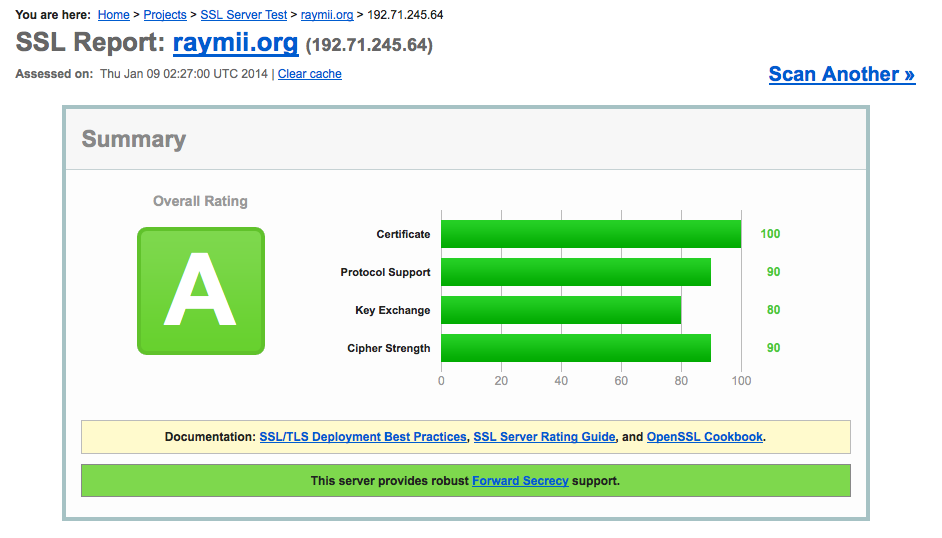
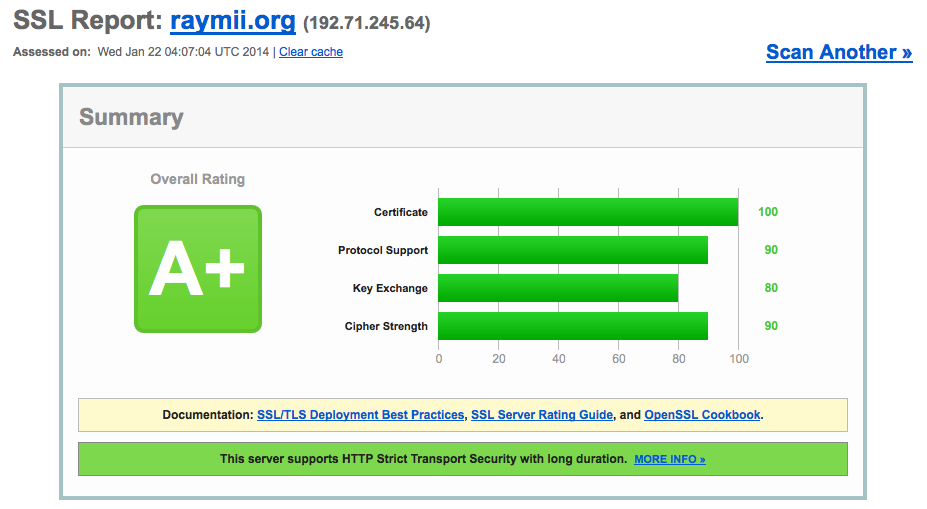
Update SSL tutorials and fixed some errors in Raspberry Pi VPN tutorial
Former-commit-id: 2959849e0c24546561a9a30900f1d586d42b2e88
Former-commit-id: d19523e1fd64dd42eb1a47b5843ff8daac8d4232

diff --git a/everything.html b/everything.html
@@ -72,7 +72,7 @@
                 <div class="inner">
 
 
-           <h2>All Items</h2><p>This page is an overview of all items on this website, including tutorials, articles, scripts, software and more. It is sorted on date, most recent first.<ol><li><a href="snippets/Remove_Old_CentOS_RHEL_Kernels.html">Remove unused CentOS/Red Hat kernels</a></li><li><a href="tutorials/rc.local_support_on_Arch_Linux_and_systemd.html">rc.local support on Arch Linux with systemd</a></li><li><a href="tutorials/IPSEC_L2TP_vpn_on_a_Raspberry_Pi_with_Arch_Linux.html">IPSEC/L2TP VPN on Arch Linux on a Raspberry Pi with OpenSwan, xl2tpd and ppp</a></li><li><a href="software/Ansible__Dynamic_Inventory_From_VMware_vCenter.html">Ansible Inventory from VMWare</a></li><li><a href="snippets/Bash_Bits_Simple_Command_Line_Arguments.html">Bash Bits: Simple command line arguments</a></li><li><a href="tutorials/Ansible_-_Playbook_Testing.html">Ansible - Playbook Testing</a></li><li><a href="tutorials/Local_W3C_HTML5_Validator_Server.html">Local W3C HTML5 Validator Server</a></li><li><a href="tutorials/Ansible_-_Only-do-something-if-another-action-changed.html">Ansible - Only do something if another action changed</a></li><li><a href="tutorials/Ansible_-_Better_sudo_control.html">Ansible - Sudo sometimes</a></li><li><a href="tutorials/Ansible_-_Only_if_on_specific_distribution_or_distribution_version.html">Ansible - Only if on specific distribution (Debian, Ubuntu, CentOS or RHEL) or distribution version (ubuntu lucid, ubuntu precise)</a></li><li><a href="tutorials/haproxy_client_side_ssl_certificates.html">haproxy: client side ssl certificates</a></li><li><a href="tutorials/Strong_SSL_Security_On_nginx.html">Strong SSL Security on nginx</a></li><li><a href="snippets/Apache_access_and_error_log_to_syslog.html">Apache access/error log to syslog</a></li><li><a href="tutorials/Strong_SSL_Security_On_Apache2.html">Strong SSL Security on Apache2</a></li><li><a href="tutorials/Thunderbird_Back_Up_Mail__Message_Filters.html">Back Up Thunderbird Message Filters</a></li><li><a href="tutorials/Install_nmap_6_on_Ubuntu_12.04.html">Install nmap 6.40 on Ubuntu 12.04</a></li><li><a href="snippets/haproxy_set_specific_ssl_ciphers.html">haproxy: set specific ssl ciphers</a></li><li><a href="snippets/haproxy_add_strict_transport_security_or_any_other_http_header.html">haproxy: add strict transport security or any other http header</a></li><li><a href="snippets/haproxy_ssl_backends.html">haproxy: ssl backends</a></li><li><a href="snippets/haproxy_redirect_to_ssl_or_any_other_website.html">haproxy: redirect to ssl or other website</a></li><li><a href="snippets/haproxy_restrict_specific_urls_to_specific_ip_addresses.html">haproxy: restrict specific URLs to specific IP addresses</a></li><li><a href="tutorials/ntop-ng-installation-on-Ubuntu.html">ntop-ng 1.1 installation on Ubuntu 12.04</a></li><li><a href="tutorials/Nagios_Core_4_Installation_on_Ubuntu_12.04.html">Nagios Core 4.0.2 installation on Ubuntu 12.04</a></li><li><a href="tutorials/Corosync_Pacemaker_-_Execute_a_script_on_failover.html">Corosync / Pacemaker - Execute script on failover</a></li><li><a href="articles/Digital_Ocean_Sucks._Use_Digital_Ocean.html">DigitalOcean Sucks. Use DigitalOcean!</a></li><li><a href="software/Nopriv-IMAP-backup.html">NoPriv.py - Easy IMAP Email Backup.</a></li><li><a href="tutorials/Self_Hosted_CryptoCat_-_Secure_Self_Hosted_Multiuser_Webchat.html">Self Hosted CryptoCat - Secure self hosted multiuser webchat</a></li><li><a href="tutorials/IPSEC_L2TP_vpn_with_Ubuntu_13.10.html">IPSEC/L2TP VPN on Ubuntu 13.10 with OpenSwan, xl2tpd and ppp</a></li><li><a href="tutorials/IPSEC_L2TP_vpn_with_Ubuntu_13.04.html">IPSEC/L2TP VPN on Ubuntu 13.04 with OpenSwan, xl2tpd and ppp</a></li><li><a href="snippets/Corosync_Notes.html">Corosync Notes</a></li><li><a href="snippets/Remove_Old_Ubuntu_Kernels.html">Remove unused Ubuntu kernels</a></li><li><a href="tutorials/Install_the_Lastest_ZNC_from_Source_in_Ubuntu.html">Install the latest ZNC from source on Ubuntu</a></li><li><a href="articles/Set_up_your_own_truly_secure_encrypted_shared_storage_aka_Dropbox_clone.html">Set up your own truly secure, encrypted and shared file synchronization, aka Dropbox clone</a></li><li><a href="snippets/OpenSSL_One_line_to_create_self_signed_certificate.html">OpenSSL One liner to create self signed certificate</a></li><li><a href="tutorials/Chef_search_in_recipe_on_roles_or_recipes.html">Chef: search in recipe based on roles or recipes</a></li><li><a href="tutorials/Chef_include_recipe_only_if_not_if.html">Chef: include_recipe only_if or not_if</a></li><li><a href="tutorials/Uninstall_OSSEC.html">Uninstall/Remove OSSEC</a></li><li><a href="snippets/Bash_Bits_Check_If_Item_Is_In_Array.html">Bash Bits: Check if item is in array</a></li><li><a href="snippets/Bash_Bits_Add_Color_Output_To_Your_Scripts.html">Bash Bits: Add colour output to your script</a></li><li><a href="snippets/Bash_Bits_Debug_Logging.html">Bash Bits: Debug Logging</a></li><li><a href="snippets/Bash_Bits_Trap_Control_C_SIGTERM.html">Bash Bits: Trap Control C (SIGTERM)</a></li><li><a href="tutorials/OSSEC_and_webui_and_analogi_dashboard_installation_on_Ubuntu.html">OSSEC Server, Client, Web UI and Analogi Dashboard Installation tutorial</a></li><li><a href="snippets/OS-X-Enable-Access-for-assistive-devices-via-command-line.html">OS X - Enable access for assistive devices via the command line</a></li><li><a href="software/OS-X-Applescript-To-Lock-Date-Time-Settings-Panel-for-Sudo-Exploit.html">OS X - Applescript to lock date and time preference panel to fix local sudo exploit</a></li><li><a href="articles/IPv4_Address_Conversion_Tricks.html">IPv4 Address Conversion Tricks</a></li><li><a href="snippets/OpenVZ_dnsmasq_set_capabilities_failed_fix.html">OpenVZ dnsmasq set capabilities failed fix</a></li><li><a href="software/Bind-GNUPlot-DNS-Bar-Graph.html">Bind DNS Query Graph Charts with GNUPlot</a></li><li><a href="software/Microsoft_Exchange_Powershell_Script_User_Password_Expiry.html">Microsoft Exchange / Active Directory Powershell script to notify users of expiring Passwords</a></li><li><a href="tutorials/Nagios_-_Hide-entire-hostgroup.html">Nagios - Hide all hosts in hostgroup</a></li><li><a href="articles/Diffie-Hellman-Key-Exchange-Dutch-Notes.html">Diffie Hellman Key Exchange Dutch Notes and Example</a></li><li><a href="snippets/OpenSSL_Password_Generator.html">OpenSSL - Generate Psuedo Random Passwords</a></li><li><a href="articles/My_Todo.txt_Workflow.html">My Todo.txt Workflow, including Unison, Todour and Android</a></li><li><a href="tutorials/Pass_the_SSL_Labs_Test_on_Lighttpd_(Mitigate_the_CRIME_and_BEAST_attack_-_Disable_SSLv2_-_Enable_PFS).html">Pass the SSL Labs Test on Lighttpd (Mitigate the CRIME and BEAST attack, Disable SSLv2 and Enable Perfect Forward Secrecy).</a></li><li><a href="tutorials/Pass_the_SSL_Labs_Test_on_NGINX_(Mitigate_the_CRIME_and_BEAST_attack_-_Disable_SSLv2_-_Enable_PFS).html">Pass the SSL Labs Test on NGINX (Mitigate the CRIME and BEAST attack, Disable SSLv2 and Enable Perfect Forward Secrecy).</a></li><li><a href="tutorials/Pass_the_SSL_Labs_Test_on_Apache2_(Mitigate_the_CRIME_and_BEAST_attack_-_Disable_SSLv2_-_Enable_PFS).html">Pass the SSL Labs Test on Apache2 (Mitigate the CRIME and BEAST attack, Disable SSLv2 and Enable Perfect Forward Secrecy).</a></li><li><a href="static/Sparkling_Network.html">Sparkling Network</a></li><li><a href="snippets/OS_X-Disable_Notification_Centre.html">OS X: Disable Notification Center</a></li><li><a href="software/bdsh.html">bdsh - Whitelist Restricted Shell</a></li><li><a href="snippets/Strip_all_non-ascii_characters_from_a_file.html">Strip all non-ascii characters from a file</a></li><li><a href="tutorials/SAMBA_Share_with_Active_Directory_Login_on_Ubuntu_12.04.html">Samba Shares with Active Directory Login on Ubuntu 12.04</a></li><li><a href="snippets/Bash_-_Incremental_History_Search_Autocomplete.html">Bash Incremental History Search / Autocomplete </a></li><li><a href="tutorials/Dogtag_Red_Hat_Certificate_System_Reset_Admin_pkiconsole_Password.html">Dogtag / Red Hat Certificate System reset admin pkiconsole password</a></li><li><a href="tutorials/Ejabberd_SSL_Certificate.html">Ejabberd SSL Certificate</a></li><li><a href="tutorials/Ejabberd_Active_Directory_LDAP_Login.html">Ejabberd Active Directory LDAP Login</a></li><li><a href="tutorials/Set_up_a_federated_XMPP_Chat_Network_with_ejabberd.html">Set up a federated XMPP Chat Network with ejabberd, your own Google Talk/Hangouts alternative</a></li><li><a href="snippets/OS_X_Turn_Bonjour_off_or_on_via_the_command_line.html">OS X - Turn Bonjour off or on via the command line</a></li><li><a href="snippets/OS_X_Turn_off_sleep_from_the_command_line.html">OS X - Turn off sleep from the command line</a></li><li><a href="software/OS_X_Create_Hardware_report_spx_and_save_it_to_a_AFP_share.html">OS X - Create Hardware report SPX and save it to a AFP share</a></li><li><a href="tutorials/Gitlab_and_Active_Directory_LDAP_Authentication.html">Gitlab Active Directory LDAP Authentication</a></li><li><a href="snippets/OS_X_-_Turn_firewall_on_or_off_from_the_command_line.html">OS X: Turn firewall on or off from the command line</a></li><li><a href="tutorials/Exchange_2007_2010_Autodiscovery_DNS_SRV_record_for_BIND.html">Exchange 2007/2010 Autodiscovery DNS SRV record for BIND</a></li><li><a href="tutorials/Get_DNS_server_version_and_hide_it_in_BIND.html">Hide or determine BIND version number</a></li><li><a href="software/Nagios_plugin_to_check_OCSP.html">Nagios plugin to check an OCSP server</a></li><li><a href="software/Nagios_Plugin_to_check_a_Safenet_HSM.html">Nagios plugin to check Safenet HSM</a></li><li><a href="software/Nagios_plugin_to_check_CRL_expiry.html">Nagios plugin to check CRL expiry in minutes</a></li><li><a href="snippets/OS-X-Add-or_Remove_Mac_to_Active_Directory_or_OpenLDAP_Domain.html">Join Mac OS X to an Active Directory / OpenDLAP directory from the commandline</a></li><li><a href="tutorials/HTTP_Strict_Transport_Security_for_Apache_NGINX_and_Lighttpd.html">HTTP Strict Transport Security for Apache, NGINX and Lighttpd</a></li><li><a href="snippets/HP-ILO-Quickly-gather-firmware-and-version-information-with-CUR.html">HP ILO - Quickly gather ILO version and firmware information via CURL</a></li><li><a href="software/Munin_plugin_Logstash_Kibana_messages_per_hour.html">Munin plugin to show Logstash/Kibana messages per hour</a></li><li><a href="tutorials/Collectd_client_setup_tutorial.html">Set up a Collectd client</a></li><li><a href="tutorials/Collectd_server_setup_tutorial_with_web_frontend.html">Set up a Collectd server with web frontend</a></li><li><a href="tutorials/NGINX_proxy_folder_to_different_root.html">NGINX: Proxy folders to different root</a></li><li><a href="tutorials/Silent-automatic-apt-get-upgrade.html">Silent unatended apt-get upgrade</a></li><li><a href="tutorials/Ansible_-_Only_if_host_is_also_in_other_hostgroup.html">Ansible - Only if host is also in other hostgroup</a></li><li><a href="tutorials/Ansible_-_Sudo_Safety_and_Sanity_Checks.html">Ansible - /etc/sudoers safety and sanity checking in playbook</a></li><li><a href="tutorials/Shared_Git_repository_via_ssh_for_multiple_users.html">Shared Git repository over ssh for multiple users</a></li><li><a href="snippets/NGINX_Block_access_to_.git_or_.svn_project_folders.html">NGINX: Hide / Block .git and .svn folders</a></li><li><a href="tutorials/Ansible_Deployment_Framework.html">Ansible - pure ssh based configuration management and deployment</a></li><li><a href="static/Hosted_Piwik.html">Hosted Piwik</a></li><li><a href="tutorials/Ansible.html">Ansible - pure ssh based configuration management and deployment</a></li><li><a href="tutorials/Screenfetch_installation_tutorial.html">Screenfetch installation tutorial</a></li><li><a href="tutorials/Better_cron_env_and_shell_control_with_the_SHELL_variale.html">Better Cron env and shell control with the SHELL variable</a></li><li><a href="articles/Word_occurrence_counter_and_analyzer.html">Word occurrence counter and analyzer</a></li><li><a href="tutorials/VMWare-ESXi-5-USB-installer.html">Create a VMWare ESXi 5 / 5.1 USB install disk</a></li><li><a href="tutorials/Website-and-database-backup-with-Duplicity.html">Basic website and database backups with Duplicity</a></li><li><a href="snippets/Systemd_Rosetta_Reference.html">Systemd rosetta / cheatsheet</a></li><li><a href="snippets/OpenSSL_generate_CSR_non-interactivemd.html">OpenSSL Generate CSR non-interactive</a></li><li><a href="snippets/OpenSSL_match_certificate_with_private_key.html">OpenSSL match certificate and private key</a></li><li><a href="snippets/Munin-Fix-MySQL-Plugin-on-Ubuntu-12.04.html">Munin - Fix MySQL plugin on Ubuntu 12.04 and Debian 6</a></li><li><a href="snippets/Munin-NGINX-Status-Plugin-Ubuntu-12.04.html">Munin - Set up the NGINX status plugin on Ubuntu 12.04</a></li><li><a href="snippets/Procfs_tips_and_tricks.html">Exploring /proc/ - tips and tricks for the procfs</a></li><li><a href="snippets/OpenSSL_Get_Certificate_Expiry_Date_and_Other_Info.html">OpenSSL one liner to get expiry date from SSL Certificate of any website</a></li><li><a href="snippets/CentOS_Save_iptables_restorecon_error.html">Fix CentOS IPTables rule saving (iptables: Saving firewall rules to /etc/sysconfig/iptables: /etc/init.d/iptables: line 274: restorecon: command not found)</a></li><li><a href="software/Restrict_SSH.html">Restrict SSH</a></li><li><a href="tutorials/RT_find__and_delete_big_attachments.html">RT (Request Tracker) - find and delete big attachments</a></li><li><a href="tutorials/Install_Python_2.7_or_3_on_debian_6.html">Install python 2.7 or 3 under Debian 6</a></li><li><a href="tutorials/IPSEC_L2TP_vpn_with_Ubuntu_12.10.html">IPSEC/L2TP VPN on Ubuntu 12.10 with OpenSwan, xl2tpd and ppp</a></li><li><a href="tutorials/IPSEC_L2TP_vpn_with_Ubuntu_12.04.html">IPSEC/L2TP VPN on Ubuntu 12.04 with OpenSwan, xl2tpd and ppp</a></li><li><a href="tutorials/IPSEC_L2TP_vpn_on_CentOS_-_Red_Hat_Enterprise_Linux_or_Scientific_-_Linux_6.html">IPSEC/L2TP VPN on CentOS 6 / Red Hat Enterprise Linux 6 / Scientific Linux 6</a></li><li><a href="software/Ruby_script_to_upload_or_convert_a_Maildir_Inbox_to_an_IMAP_Server.html">Ruby script to upload or convert a Maildir Inbox to an IMAP server</a></li><li><a href="software/Python-script-to-monitor-a-file-for-changes-and-then-mail-the-report-with-the-file-attached.html">Python script to monitor a file for changes and then mail the report with the file attached.</a></li><li><a href="tutorials/Exchange_2010_OWA_lock_users_after_x_amount_of_failed_logins.html">Exchange 2010 - OWA - Lock user after x amount of failed logins</a></li><li><a href="tutorials/Restore-iptables-rules-after-a-reboot-on-debian.html">Restore iptables rules after a reboot on debian</a></li><li><a href="tutorials/OS-X-Mountain_Lion_iso_resize_to_fit_on_a_single_layer_dvd.html">Resize OS X Mountain Lion installer to fit on a single layer 4.7 GB DVD</a></li><li><a href="software/CIDR-Cheatsheet.html">CIDR Cheatsheet</a></li><li><a href="software/ingsoc.html">ingsoc</a></li><li><a href="tutorials/Munin_optimalization_on_Debian.html">Munin optimization guide for Debian (rrdcached, tmpfs, ionice and nice)</a></li><li><a href="snippets/OS-X-Change-Hostname.html">Set OS X hostname from the commandline</a></li><li><a href="tutorials/ClamAV.html">ClamAV installation and daily scan + report on Ubuntu</a></li><li><a href="tutorials/Limit_access_to_openssh_features_with_the_Match_keyword.html">Limit access to openssh features with the Match option</a></li><li><a href="tutorials/Tahoe_LAFS_Storage_Grid.html">Set up your own distributed, redundant, and encrypted storage grid with Tahoe-LAFS</a></li><li><a href="software/Git-clean.html">Git-clean</a></li><li><a href="articles/Small_Linux_PCs.html">Small low cost linux pc's, an overview from 11-2012</a></li><li><a href="software/Bash_PHP_Server_Status_Monitor.html">Ray-Mon - PHP/Bash server status monitoring</a></li><li><a href="software/Codename_Geld.html">Codename Geld</a></li><li><a href="tutorials/ed_cheatsheet.html">ed cheatsheet</a></li><li><a href="tutorials/Autossh_persistent_tunnels.html">Persistent reverse (NAT bypassing) SSH tunnel access with autossh</a></li><li><a href="software/Nagios_check_local_certificate_files.html">Nagios plugin to check certificates on local file system</a></li><li><a href="software/NutsManager.html">NutsManager</a></li><li><a href="software/PHP-task-list-v2.html">PHP Task/Todo list</a></li><li><a href="articles/Security_Now_Word_Analyzer.html">Complete word count analysis of Security Now, episode 1 trough 370.</a></li><li><a href="snippets/Get_uptime_load_and_users_with_grep_sed_and_awk.html">Correctly grep and display the uptime, load average and amount of users</a></li><li><a href="software/Software_packages.html">Packages</a></li><li><a href="articles/Tiny-Tiny-RSS.html">Tiny Tiny RSS</a></li><li><a href="software/Wallbase.cc_Command_line_script.html">Wallbase.cc commandline bash wget downloader</a></li><li><a href="articles/Small_Linux_Distros.html">Small Operating Systems / Linux Distributions</a></li><li><a href="snippets/Set_up_an_IMAPS_and_SMTPS_mail_server_with_Postfix_and_Dovecot.html">Postfix snippets - not finished</a></li><li><a href="software/ProxBash.html">ProxBash - a bash script to manage Proxmox VE</a></li><li><a href="software/Ubuntu_update_mailer.html">Ubuntu/Debian update mailer</a></li><li><a href="software/Terrible-start.html">Terrible Start</a></li><li><a href="snippets/Bash_-_Do_something_in_every_subdirectory_of_a_folder.html">Bash - do something in every subdirectory</a></li><li><a href="software/List-all-changed-files-in-a-certain-period.html">Bash script to list all changed files in certain period</a></li><li><a href="tutorials/Set_up_a_local_Ubuntu_debian_apt_mirror.html">Set up a local Ubuntu (apt) repository with apt-mirror</a></li><li><a href="software/Nursecalc-o2.html">NurseCalc o2 - Bash script and online app for Oxygen Calculations</a></li><li><a href="software/Nursecalc-Infuus.html">NurseCalc Infuus - Bash script and Online app for infusion and drip (speed) Calculations </a></li><li><a href="snippets/Arch-bash-pacman-bashrc-tips.html">Some Bash and Arch Tweaks </a></li><li><a href="software/Magicprog.html">MagicProg: Magic the Gathering (RPG/TGC) Life Program </a></li><li><a href="articles/Chrome-extensions-for-privacy.html">Chrome Extensions for Privacy, Adblocking and anti-tracking</a></li><li><a href="tutorials/Stopping-fail2ban.server-ERROR-Unexpected-communication-error-and-other-errors-in-fail2ban-on-ubuntu-9.04.html">Stopping fail2ban.server : ERROR Unexpected communication error and other errors in fail2ban on ubuntu 9.04</a></li><li><a href="tutorials/Dokuwiki_Overview.html">Introduction to DokuWiki</a></li><li><a href="tutorials/Markdown_Introduction_Tutorial_Overview.html">Introduction to Markdown</a></li><li><a href="tutorials/Tether-your-sonim-xp3-phone-with-linux.html">Tether your Sonim XP3 phone with Linux</a></li><li><a href="tutorials/What-to-do-if-you-cannot-execute-chmod.html">What to do if you cannot execute CHMOD</a></li><li><a href="software/Nopriv.py.html">NoPriv.py - Easy IMAP email backup to HTML archive.</a></li><li><a href="tutorials/Customize-your-clonezilla-live-CD.html">Customize your Clonezilla Live CD</a></li><li><a href="tutorials/Debian-apt-get-dpkg-packages-cleanup-commands.html">Debian packages clean up commands</a></li><li><a href="software/Easyconverter.html">EasyConverter</a></li><li><a href="software/SSHDialog.html">SSHdialog</a></li><li><a href="software/Clonezilla-custom-backup-script.html">Clonezilla Backup Script v0.2</a></li><li><a href="tutorials/Postfix_Log_message_from_to_and_subject_headers.html">Postfix: log message from, to and subject</a></li><li><a href="tutorials/SSH-Key-Restrictions.html">SSH: Key and user restrictions</a></li><li><a href="snippets/Bash-massive-rename-to-numbers.html">Bash script for massive rename to numbers</a></li><li><a href="snippets/Javascript-tricks.html">Javascript tricks</a></li><li><a href="snippets/Convert-all-flv-files-in-a-folder-to-mp3.html">Convert FLV's to MP3</a></li><li><a href="tutorials/Setting-up-motion-with-ftp-and-email-support.html">Setting up Motion with FTP and Email! support</a></li><li><a href="snippets/Ja-Nee-keuze-toevoegen-in-een-bash-script.html">Bash ja/nee keuze</a></li><li><a href="snippets/Imagemagick-thumbnailer.html">Imagemagick thumbnailer</a></li><li><a href="tutorials/Set-your-ip-as-wallpaper.html">Set your IP as wallpaper</a></li><li><a href="snippets/Vim_Cheatsheet.html">Vim Cheatsheet</a></li><li><a href="static/Disclaimer.html">Disclaimer</a></li><li><a href="static/Contact.html">Contact</a></li></ol><div class="footer">
+           <h2>All Items</h2><p>This page is an overview of all items on this website, including tutorials, articles, scripts, software and more. It is sorted on date, most recent first.<ol><li><a href="snippets/Remove_Old_CentOS_RHEL_Kernels.html">Remove unused CentOS/Red Hat kernels</a></li><li><a href="tutorials/rc.local_support_on_Arch_Linux_and_systemd.html">rc.local support on Arch Linux with systemd</a></li><li><a href="tutorials/IPSEC_L2TP_vpn_on_a_Raspberry_Pi_with_Arch_Linux.html">IPSEC/L2TP VPN on Arch Linux on a Raspberry Pi with OpenSwan, xl2tpd and ppp</a></li><li><a href="software/Ansible__Dynamic_Inventory_From_VMware_vCenter.html">Ansible Inventory from VMWare</a></li><li><a href="snippets/Bash_Bits_Simple_Command_Line_Arguments.html">Bash Bits: Simple command line arguments</a></li><li><a href="tutorials/Ansible_-_Playbook_Testing.html">Ansible - Playbook Testing</a></li><li><a href="tutorials/Local_W3C_HTML5_Validator_Server.html">Local W3C HTML5 Validator Server</a></li><li><a href="tutorials/Ansible_-_Only-do-something-if-another-action-changed.html">Ansible - Only do something if another action changed</a></li><li><a href="tutorials/Ansible_-_Better_sudo_control.html">Ansible - Sudo sometimes</a></li><li><a href="tutorials/Ansible_-_Only_if_on_specific_distribution_or_distribution_version.html">Ansible - Only if on specific distribution (Debian, Ubuntu, CentOS or RHEL) or distribution version (ubuntu lucid, ubuntu precise)</a></li><li><a href="tutorials/haproxy_client_side_ssl_certificates.html">haproxy: client side ssl certificates</a></li><li><a href="snippets/Apache_access_and_error_log_to_syslog.html">Apache access/error log to syslog</a></li><li><a href="tutorials/Strong_SSL_Security_On_Apache2.html">Strong SSL Security on Apache2</a></li><li><a href="tutorials/Thunderbird_Back_Up_Mail__Message_Filters.html">Back Up Thunderbird Message Filters</a></li><li><a href="tutorials/Install_nmap_6_on_Ubuntu_12.04.html">Install nmap 6.40 on Ubuntu 12.04</a></li><li><a href="snippets/haproxy_set_specific_ssl_ciphers.html">haproxy: set specific ssl ciphers</a></li><li><a href="snippets/haproxy_add_strict_transport_security_or_any_other_http_header.html">haproxy: add strict transport security or any other http header</a></li><li><a href="snippets/haproxy_ssl_backends.html">haproxy: ssl backends</a></li><li><a href="snippets/haproxy_redirect_to_ssl_or_any_other_website.html">haproxy: redirect to ssl or other website</a></li><li><a href="snippets/haproxy_restrict_specific_urls_to_specific_ip_addresses.html">haproxy: restrict specific URLs to specific IP addresses</a></li><li><a href="tutorials/ntop-ng-installation-on-Ubuntu.html">ntop-ng 1.1 installation on Ubuntu 12.04</a></li><li><a href="tutorials/Nagios_Core_4_Installation_on_Ubuntu_12.04.html">Nagios Core 4.0.2 installation on Ubuntu 12.04</a></li><li><a href="tutorials/Corosync_Pacemaker_-_Execute_a_script_on_failover.html">Corosync / Pacemaker - Execute script on failover</a></li><li><a href="articles/Digital_Ocean_Sucks._Use_Digital_Ocean.html">DigitalOcean Sucks. Use DigitalOcean!</a></li><li><a href="software/Nopriv-IMAP-backup.html">NoPriv.py - Easy IMAP Email Backup.</a></li><li><a href="tutorials/Self_Hosted_CryptoCat_-_Secure_Self_Hosted_Multiuser_Webchat.html">Self Hosted CryptoCat - Secure self hosted multiuser webchat</a></li><li><a href="tutorials/IPSEC_L2TP_vpn_with_Ubuntu_13.10.html">IPSEC/L2TP VPN on Ubuntu 13.10 with OpenSwan, xl2tpd and ppp</a></li><li><a href="tutorials/IPSEC_L2TP_vpn_with_Ubuntu_13.04.html">IPSEC/L2TP VPN on Ubuntu 13.04 with OpenSwan, xl2tpd and ppp</a></li><li><a href="snippets/Corosync_Notes.html">Corosync Notes</a></li><li><a href="snippets/Remove_Old_Ubuntu_Kernels.html">Remove unused Ubuntu kernels</a></li><li><a href="tutorials/Install_the_Lastest_ZNC_from_Source_in_Ubuntu.html">Install the latest ZNC from source on Ubuntu</a></li><li><a href="articles/Set_up_your_own_truly_secure_encrypted_shared_storage_aka_Dropbox_clone.html">Set up your own truly secure, encrypted and shared file synchronization, aka Dropbox clone</a></li><li><a href="snippets/OpenSSL_One_line_to_create_self_signed_certificate.html">OpenSSL One liner to create self signed certificate</a></li><li><a href="tutorials/Chef_search_in_recipe_on_roles_or_recipes.html">Chef: search in recipe based on roles or recipes</a></li><li><a href="tutorials/Chef_include_recipe_only_if_not_if.html">Chef: include_recipe only_if or not_if</a></li><li><a href="tutorials/Uninstall_OSSEC.html">Uninstall/Remove OSSEC</a></li><li><a href="snippets/Bash_Bits_Check_If_Item_Is_In_Array.html">Bash Bits: Check if item is in array</a></li><li><a href="snippets/Bash_Bits_Add_Color_Output_To_Your_Scripts.html">Bash Bits: Add colour output to your script</a></li><li><a href="snippets/Bash_Bits_Debug_Logging.html">Bash Bits: Debug Logging</a></li><li><a href="snippets/Bash_Bits_Trap_Control_C_SIGTERM.html">Bash Bits: Trap Control C (SIGTERM)</a></li><li><a href="tutorials/OSSEC_and_webui_and_analogi_dashboard_installation_on_Ubuntu.html">OSSEC Server, Client, Web UI and Analogi Dashboard Installation tutorial</a></li><li><a href="snippets/OS-X-Enable-Access-for-assistive-devices-via-command-line.html">OS X - Enable access for assistive devices via the command line</a></li><li><a href="software/OS-X-Applescript-To-Lock-Date-Time-Settings-Panel-for-Sudo-Exploit.html">OS X - Applescript to lock date and time preference panel to fix local sudo exploit</a></li><li><a href="articles/IPv4_Address_Conversion_Tricks.html">IPv4 Address Conversion Tricks</a></li><li><a href="snippets/OpenVZ_dnsmasq_set_capabilities_failed_fix.html">OpenVZ dnsmasq set capabilities failed fix</a></li><li><a href="software/Bind-GNUPlot-DNS-Bar-Graph.html">Bind DNS Query Graph Charts with GNUPlot</a></li><li><a href="software/Microsoft_Exchange_Powershell_Script_User_Password_Expiry.html">Microsoft Exchange / Active Directory Powershell script to notify users of expiring Passwords</a></li><li><a href="tutorials/Nagios_-_Hide-entire-hostgroup.html">Nagios - Hide all hosts in hostgroup</a></li><li><a href="articles/Diffie-Hellman-Key-Exchange-Dutch-Notes.html">Diffie Hellman Key Exchange Dutch Notes and Example</a></li><li><a href="snippets/OpenSSL_Password_Generator.html">OpenSSL - Generate Psuedo Random Passwords</a></li><li><a href="articles/My_Todo.txt_Workflow.html">My Todo.txt Workflow, including Unison, Todour and Android</a></li><li><a href="tutorials/Pass_the_SSL_Labs_Test_on_Lighttpd_(Mitigate_the_CRIME_and_BEAST_attack_-_Disable_SSLv2_-_Enable_PFS).html">Pass the SSL Labs Test on Lighttpd (Mitigate the CRIME and BEAST attack, Disable SSLv2 and Enable Perfect Forward Secrecy).</a></li><li><a href="tutorials/Pass_the_SSL_Labs_Test_on_NGINX_(Mitigate_the_CRIME_and_BEAST_attack_-_Disable_SSLv2_-_Enable_PFS).html">Pass the SSL Labs Test on NGINX (Mitigate the CRIME and BEAST attack, Disable SSLv2 and Enable Perfect Forward Secrecy).</a></li><li><a href="tutorials/Pass_the_SSL_Labs_Test_on_Apache2_(Mitigate_the_CRIME_and_BEAST_attack_-_Disable_SSLv2_-_Enable_PFS).html">Pass the SSL Labs Test on Apache2 (Mitigate the CRIME and BEAST attack, Disable SSLv2 and Enable Perfect Forward Secrecy).</a></li><li><a href="static/Sparkling_Network.html">Sparkling Network</a></li><li><a href="snippets/OS_X-Disable_Notification_Centre.html">OS X: Disable Notification Center</a></li><li><a href="software/bdsh.html">bdsh - Whitelist Restricted Shell</a></li><li><a href="snippets/Strip_all_non-ascii_characters_from_a_file.html">Strip all non-ascii characters from a file</a></li><li><a href="tutorials/SAMBA_Share_with_Active_Directory_Login_on_Ubuntu_12.04.html">Samba Shares with Active Directory Login on Ubuntu 12.04</a></li><li><a href="snippets/Bash_-_Incremental_History_Search_Autocomplete.html">Bash Incremental History Search / Autocomplete </a></li><li><a href="tutorials/Dogtag_Red_Hat_Certificate_System_Reset_Admin_pkiconsole_Password.html">Dogtag / Red Hat Certificate System reset admin pkiconsole password</a></li><li><a href="tutorials/Ejabberd_SSL_Certificate.html">Ejabberd SSL Certificate</a></li><li><a href="tutorials/Ejabberd_Active_Directory_LDAP_Login.html">Ejabberd Active Directory LDAP Login</a></li><li><a href="tutorials/Set_up_a_federated_XMPP_Chat_Network_with_ejabberd.html">Set up a federated XMPP Chat Network with ejabberd, your own Google Talk/Hangouts alternative</a></li><li><a href="snippets/OS_X_Turn_Bonjour_off_or_on_via_the_command_line.html">OS X - Turn Bonjour off or on via the command line</a></li><li><a href="snippets/OS_X_Turn_off_sleep_from_the_command_line.html">OS X - Turn off sleep from the command line</a></li><li><a href="software/OS_X_Create_Hardware_report_spx_and_save_it_to_a_AFP_share.html">OS X - Create Hardware report SPX and save it to a AFP share</a></li><li><a href="tutorials/Gitlab_and_Active_Directory_LDAP_Authentication.html">Gitlab Active Directory LDAP Authentication</a></li><li><a href="snippets/OS_X_-_Turn_firewall_on_or_off_from_the_command_line.html">OS X: Turn firewall on or off from the command line</a></li><li><a href="tutorials/Exchange_2007_2010_Autodiscovery_DNS_SRV_record_for_BIND.html">Exchange 2007/2010 Autodiscovery DNS SRV record for BIND</a></li><li><a href="tutorials/Get_DNS_server_version_and_hide_it_in_BIND.html">Hide or determine BIND version number</a></li><li><a href="software/Nagios_plugin_to_check_OCSP.html">Nagios plugin to check an OCSP server</a></li><li><a href="software/Nagios_Plugin_to_check_a_Safenet_HSM.html">Nagios plugin to check Safenet HSM</a></li><li><a href="software/Nagios_plugin_to_check_CRL_expiry.html">Nagios plugin to check CRL expiry in minutes</a></li><li><a href="snippets/OS-X-Add-or_Remove_Mac_to_Active_Directory_or_OpenLDAP_Domain.html">Join Mac OS X to an Active Directory / OpenDLAP directory from the commandline</a></li><li><a href="tutorials/HTTP_Strict_Transport_Security_for_Apache_NGINX_and_Lighttpd.html">HTTP Strict Transport Security for Apache, NGINX and Lighttpd</a></li><li><a href="snippets/HP-ILO-Quickly-gather-firmware-and-version-information-with-CUR.html">HP ILO - Quickly gather ILO version and firmware information via CURL</a></li><li><a href="software/Munin_plugin_Logstash_Kibana_messages_per_hour.html">Munin plugin to show Logstash/Kibana messages per hour</a></li><li><a href="tutorials/Collectd_client_setup_tutorial.html">Set up a Collectd client</a></li><li><a href="tutorials/Collectd_server_setup_tutorial_with_web_frontend.html">Set up a Collectd server with web frontend</a></li><li><a href="tutorials/NGINX_proxy_folder_to_different_root.html">NGINX: Proxy folders to different root</a></li><li><a href="tutorials/Silent-automatic-apt-get-upgrade.html">Silent unatended apt-get upgrade</a></li><li><a href="tutorials/Ansible_-_Only_if_host_is_also_in_other_hostgroup.html">Ansible - Only if host is also in other hostgroup</a></li><li><a href="tutorials/Ansible_-_Sudo_Safety_and_Sanity_Checks.html">Ansible - /etc/sudoers safety and sanity checking in playbook</a></li><li><a href="tutorials/Shared_Git_repository_via_ssh_for_multiple_users.html">Shared Git repository over ssh for multiple users</a></li><li><a href="snippets/NGINX_Block_access_to_.git_or_.svn_project_folders.html">NGINX: Hide / Block .git and .svn folders</a></li><li><a href="tutorials/Ansible_Deployment_Framework.html">Ansible - pure ssh based configuration management and deployment</a></li><li><a href="static/Hosted_Piwik.html">Hosted Piwik</a></li><li><a href="tutorials/Ansible.html">Ansible - pure ssh based configuration management and deployment</a></li><li><a href="tutorials/Screenfetch_installation_tutorial.html">Screenfetch installation tutorial</a></li><li><a href="tutorials/Better_cron_env_and_shell_control_with_the_SHELL_variale.html">Better Cron env and shell control with the SHELL variable</a></li><li><a href="articles/Word_occurrence_counter_and_analyzer.html">Word occurrence counter and analyzer</a></li><li><a href="tutorials/VMWare-ESXi-5-USB-installer.html">Create a VMWare ESXi 5 / 5.1 USB install disk</a></li><li><a href="tutorials/Website-and-database-backup-with-Duplicity.html">Basic website and database backups with Duplicity</a></li><li><a href="snippets/Systemd_Rosetta_Reference.html">Systemd rosetta / cheatsheet</a></li><li><a href="snippets/OpenSSL_generate_CSR_non-interactivemd.html">OpenSSL Generate CSR non-interactive</a></li><li><a href="snippets/OpenSSL_match_certificate_with_private_key.html">OpenSSL match certificate and private key</a></li><li><a href="snippets/Munin-Fix-MySQL-Plugin-on-Ubuntu-12.04.html">Munin - Fix MySQL plugin on Ubuntu 12.04 and Debian 6</a></li><li><a href="snippets/Munin-NGINX-Status-Plugin-Ubuntu-12.04.html">Munin - Set up the NGINX status plugin on Ubuntu 12.04</a></li><li><a href="snippets/Procfs_tips_and_tricks.html">Exploring /proc/ - tips and tricks for the procfs</a></li><li><a href="snippets/OpenSSL_Get_Certificate_Expiry_Date_and_Other_Info.html">OpenSSL one liner to get expiry date from SSL Certificate of any website</a></li><li><a href="snippets/CentOS_Save_iptables_restorecon_error.html">Fix CentOS IPTables rule saving (iptables: Saving firewall rules to /etc/sysconfig/iptables: /etc/init.d/iptables: line 274: restorecon: command not found)</a></li><li><a href="tutorials/Strong_SSL_Security_On_nginx.html">Strong SSL Security on nginx</a></li><li><a href="software/Restrict_SSH.html">Restrict SSH</a></li><li><a href="tutorials/RT_find__and_delete_big_attachments.html">RT (Request Tracker) - find and delete big attachments</a></li><li><a href="tutorials/Install_Python_2.7_or_3_on_debian_6.html">Install python 2.7 or 3 under Debian 6</a></li><li><a href="tutorials/IPSEC_L2TP_vpn_with_Ubuntu_12.10.html">IPSEC/L2TP VPN on Ubuntu 12.10 with OpenSwan, xl2tpd and ppp</a></li><li><a href="tutorials/IPSEC_L2TP_vpn_with_Ubuntu_12.04.html">IPSEC/L2TP VPN on Ubuntu 12.04 with OpenSwan, xl2tpd and ppp</a></li><li><a href="tutorials/IPSEC_L2TP_vpn_on_CentOS_-_Red_Hat_Enterprise_Linux_or_Scientific_-_Linux_6.html">IPSEC/L2TP VPN on CentOS 6 / Red Hat Enterprise Linux 6 / Scientific Linux 6</a></li><li><a href="software/Ruby_script_to_upload_or_convert_a_Maildir_Inbox_to_an_IMAP_Server.html">Ruby script to upload or convert a Maildir Inbox to an IMAP server</a></li><li><a href="software/Python-script-to-monitor-a-file-for-changes-and-then-mail-the-report-with-the-file-attached.html">Python script to monitor a file for changes and then mail the report with the file attached.</a></li><li><a href="tutorials/Exchange_2010_OWA_lock_users_after_x_amount_of_failed_logins.html">Exchange 2010 - OWA - Lock user after x amount of failed logins</a></li><li><a href="tutorials/Restore-iptables-rules-after-a-reboot-on-debian.html">Restore iptables rules after a reboot on debian</a></li><li><a href="tutorials/OS-X-Mountain_Lion_iso_resize_to_fit_on_a_single_layer_dvd.html">Resize OS X Mountain Lion installer to fit on a single layer 4.7 GB DVD</a></li><li><a href="software/CIDR-Cheatsheet.html">CIDR Cheatsheet</a></li><li><a href="software/ingsoc.html">ingsoc</a></li><li><a href="tutorials/Munin_optimalization_on_Debian.html">Munin optimization guide for Debian (rrdcached, tmpfs, ionice and nice)</a></li><li><a href="snippets/OS-X-Change-Hostname.html">Set OS X hostname from the commandline</a></li><li><a href="tutorials/ClamAV.html">ClamAV installation and daily scan + report on Ubuntu</a></li><li><a href="tutorials/Limit_access_to_openssh_features_with_the_Match_keyword.html">Limit access to openssh features with the Match option</a></li><li><a href="tutorials/Tahoe_LAFS_Storage_Grid.html">Set up your own distributed, redundant, and encrypted storage grid with Tahoe-LAFS</a></li><li><a href="software/Git-clean.html">Git-clean</a></li><li><a href="articles/Small_Linux_PCs.html">Small low cost linux pc's, an overview from 11-2012</a></li><li><a href="software/Bash_PHP_Server_Status_Monitor.html">Ray-Mon - PHP/Bash server status monitoring</a></li><li><a href="software/Codename_Geld.html">Codename Geld</a></li><li><a href="tutorials/ed_cheatsheet.html">ed cheatsheet</a></li><li><a href="tutorials/Autossh_persistent_tunnels.html">Persistent reverse (NAT bypassing) SSH tunnel access with autossh</a></li><li><a href="software/Nagios_check_local_certificate_files.html">Nagios plugin to check certificates on local file system</a></li><li><a href="software/NutsManager.html">NutsManager</a></li><li><a href="software/PHP-task-list-v2.html">PHP Task/Todo list</a></li><li><a href="articles/Security_Now_Word_Analyzer.html">Complete word count analysis of Security Now, episode 1 trough 370.</a></li><li><a href="snippets/Get_uptime_load_and_users_with_grep_sed_and_awk.html">Correctly grep and display the uptime, load average and amount of users</a></li><li><a href="software/Software_packages.html">Packages</a></li><li><a href="articles/Tiny-Tiny-RSS.html">Tiny Tiny RSS</a></li><li><a href="software/Wallbase.cc_Command_line_script.html">Wallbase.cc commandline bash wget downloader</a></li><li><a href="articles/Small_Linux_Distros.html">Small Operating Systems / Linux Distributions</a></li><li><a href="snippets/Set_up_an_IMAPS_and_SMTPS_mail_server_with_Postfix_and_Dovecot.html">Postfix snippets - not finished</a></li><li><a href="software/ProxBash.html">ProxBash - a bash script to manage Proxmox VE</a></li><li><a href="software/Ubuntu_update_mailer.html">Ubuntu/Debian update mailer</a></li><li><a href="software/Terrible-start.html">Terrible Start</a></li><li><a href="snippets/Bash_-_Do_something_in_every_subdirectory_of_a_folder.html">Bash - do something in every subdirectory</a></li><li><a href="software/List-all-changed-files-in-a-certain-period.html">Bash script to list all changed files in certain period</a></li><li><a href="tutorials/Set_up_a_local_Ubuntu_debian_apt_mirror.html">Set up a local Ubuntu (apt) repository with apt-mirror</a></li><li><a href="software/Nursecalc-o2.html">NurseCalc o2 - Bash script and online app for Oxygen Calculations</a></li><li><a href="software/Nursecalc-Infuus.html">NurseCalc Infuus - Bash script and Online app for infusion and drip (speed) Calculations </a></li><li><a href="snippets/Arch-bash-pacman-bashrc-tips.html">Some Bash and Arch Tweaks </a></li><li><a href="software/Magicprog.html">MagicProg: Magic the Gathering (RPG/TGC) Life Program </a></li><li><a href="articles/Chrome-extensions-for-privacy.html">Chrome Extensions for Privacy, Adblocking and anti-tracking</a></li><li><a href="tutorials/Stopping-fail2ban.server-ERROR-Unexpected-communication-error-and-other-errors-in-fail2ban-on-ubuntu-9.04.html">Stopping fail2ban.server : ERROR Unexpected communication error and other errors in fail2ban on ubuntu 9.04</a></li><li><a href="tutorials/Dokuwiki_Overview.html">Introduction to DokuWiki</a></li><li><a href="tutorials/Markdown_Introduction_Tutorial_Overview.html">Introduction to Markdown</a></li><li><a href="tutorials/Tether-your-sonim-xp3-phone-with-linux.html">Tether your Sonim XP3 phone with Linux</a></li><li><a href="tutorials/What-to-do-if-you-cannot-execute-chmod.html">What to do if you cannot execute CHMOD</a></li><li><a href="software/Nopriv.py.html">NoPriv.py - Easy IMAP email backup to HTML archive.</a></li><li><a href="tutorials/Customize-your-clonezilla-live-CD.html">Customize your Clonezilla Live CD</a></li><li><a href="tutorials/Debian-apt-get-dpkg-packages-cleanup-commands.html">Debian packages clean up commands</a></li><li><a href="software/Easyconverter.html">EasyConverter</a></li><li><a href="software/SSHDialog.html">SSHdialog</a></li><li><a href="software/Clonezilla-custom-backup-script.html">Clonezilla Backup Script v0.2</a></li><li><a href="tutorials/Postfix_Log_message_from_to_and_subject_headers.html">Postfix: log message from, to and subject</a></li><li><a href="tutorials/SSH-Key-Restrictions.html">SSH: Key and user restrictions</a></li><li><a href="snippets/Bash-massive-rename-to-numbers.html">Bash script for massive rename to numbers</a></li><li><a href="snippets/Javascript-tricks.html">Javascript tricks</a></li><li><a href="snippets/Convert-all-flv-files-in-a-folder-to-mp3.html">Convert FLV's to MP3</a></li><li><a href="tutorials/Setting-up-motion-with-ftp-and-email-support.html">Setting up Motion with FTP and Email! support</a></li><li><a href="snippets/Ja-Nee-keuze-toevoegen-in-een-bash-script.html">Bash ja/nee keuze</a></li><li><a href="snippets/Imagemagick-thumbnailer.html">Imagemagick thumbnailer</a></li><li><a href="tutorials/Set-your-ip-as-wallpaper.html">Set your IP as wallpaper</a></li><li><a href="snippets/Vim_Cheatsheet.html">Vim Cheatsheet</a></li><li><a href="static/Disclaimer.html">Disclaimer</a></li><li><a href="static/Contact.html">Contact</a></li></ol><div class="footer">
                 <hr>
                 <p>Generated by <a href="https://raymii.org/s/software/ingsoc.html">ingsoc</a>.<br />
                 </div>

diff --git a/tutorials/Strong_SSL_Security_On_nginx.html b/tutorials/Strong_SSL_Security_On_nginx.html
@@ -72,11 +72,13 @@
                 <div class="inner">
 
 
-           <h2>Strong SSL Security on nginx</h2><ul class="breadcrumb"><li><a href="../" class="link">Home</a></li><li><a href="../tutorials" class="link">Tutorials</a></li><li><a href="Strong_SSL_Security_On_nginx.html" class="link">Strong SSL Security on nginx</a></li></ul><h6>Author: Remy Van Elst</h6><h6>Date: 15-12-2013</h6><br><p><a href="https://www.ssllabs.com/ssltest/analyze.html?d=raymii.org"><img src="https://raymii.org/s/inc/img/ssl-labs-a.png" alt="A on ssl labs test" /></a></p>
+           <h2>Strong SSL Security on nginx</h2><ul class="breadcrumb"><li><a href="../" class="link">Home</a></li><li><a href="../tutorials" class="link">Tutorials</a></li><li><a href="Strong_SSL_Security_On_nginx.html" class="link">Strong SSL Security on nginx</a></li></ul><h6>Author: Remy Van Elst</h6><h6>Date: 22-01-2013</h6><br><p><a href="https://www.ssllabs.com/ssltest/analyze.html?d=raymii.org"><img src="https://raymii.org/s/inc/img/ssl-labs-a.png" alt="A on ssl labs test" /></a></p>
 
 <p>This tutorial shows you how to set up strong SSL security on the nginx webserver. We do this by disabling SSL Compression to mitigate the CRIME attack, disable SSLv3 and below because of vulnerabilities in the protocol and we will set up a strong ciphersuite that enables Forward Secrecy when possible. This way we have a strong and future proof ssl configuration and we get an A on the Qually Labs SSL Test.  </p>
 
 <p>This tutorial is tested on a Digital Ocean VPS. If you like this tutorial and want to support my website, use this link to order a Digital Ocean VPS: <a href="https://www.digitalocean.com/?refcode=7435ae6b8212">https://www.digitalocean.com/?refcode=7435ae6b8212</a>   </p>
+
+<p>This tutorial works with the stricter requirements of the SSL Labs test <a href="http://blog.ivanristic.com/2014/01/ssl-labs-stricter-security-requirements-for-2014.html">announced on the 21st of January 2014</a> (It already did before that, if you follow(ed) it you get an A+)</p>
 
 <p><a href="https://raymii.org/s/tutorials/Strong_SSL_Security_On_Apache2.html">This tutorial is also available for Apache</a><br>
 <a href="https://raymii.org/s/tutorials/Pass_the_SSL_Labs_Test_on_Lighttpd_%28Mitigate_the_CRIME_and_BEAST_attack_-_Disable_SSLv2_-_Enable_PFS%29.html">This tutorial is also available for Lighttpd</a></p>

diff --git a/tutorials/IPSEC_L2TP_vpn_on_a_Raspberry_Pi_with_Arch_Linux.html b/tutorials/IPSEC_L2TP_vpn_on_a_Raspberry_Pi_with_Arch_Linux.html
@@ -139,7 +139,7 @@ echo &quot;net.ipv4.icmp_ignore_bogus_error_responses = 1&quot; |  tee -a /etc/s
 
 <p>Now apply these settings for other network interfaces:</p>
 
-<pre><code>for vpn in /proc/sys/net/ipv4/conf/*; do echo 0 &gt; $vpn/accept_redirects; echo 0 &amp;gt; $vpn/send_redirects; done
+<pre><code>for vpn in /proc/sys/net/ipv4/conf/*; do echo 0 &gt; $vpn/accept_redirects; echo 0 &gt; $vpn/send_redirects; done
 </code></pre>
 
 <p>And apply them:</p>
@@ -329,6 +329,11 @@ length bit = yes
 <li>ppp debug = yes when testing, no when in production</li>
 </ul>
 
+<p>Also create the following folder for xl2tpd&#39;s control file:</p>
+
+<pre><code>mkdir /var/run/xl2tpd/
+</code></pre>
+
 <h4>Local user (PAM//etc/passwd) authentication</h4>
 
 <p>To use local user accounts via pam (or /etc/passwd), and thus not having plain text user passwords in a text file you have to do a few extra steps. Huge thanks to <code>Sascha Scandella</code> for the hard work and troubleshooting.</p>
@@ -419,7 +424,7 @@ bob            l2tpd   DF98F09F74C06A2F             *
 
 <p>To make sure everything has the newest config files restart openswan and xl2tpd:  </p>
 
-<pre><code>systemctl restart ipsec
+<pre><code>systemctl restart openswan
 systemctl restart xl2tpd
 </code></pre>
 

diff --git a/tutorials/Strong_SSL_Security_On_Apache2.html b/tutorials/Strong_SSL_Security_On_Apache2.html
@@ -78,6 +78,8 @@
 
 <p>This tutorial is tested on a Digital Ocean VPS. If you like this tutorial and want to support my website, use this link to order a Digital Ocean VPS: <a href="https://www.digitalocean.com/?refcode=7435ae6b8212">https://www.digitalocean.com/?refcode=7435ae6b8212</a>   </p>
 
+<p>This tutorial works with the stricter requirements of the SSL Labs test <a href="http://blog.ivanristic.com/2014/01/ssl-labs-stricter-security-requirements-for-2014.html">announced on the 21st of January 2014</a> (It already did before that, if you follow(ed) it you get an A+)</p>
+
 <p><a href="https://raymii.org/s/tutorials/Strong_SSL_Security_On_nginx.html">This tutorial is also available for NGINX</a><br>
 <a href="https://raymii.org/s/tutorials/Pass_the_SSL_Labs_Test_on_Lighttpd_%28Mitigate_the_CRIME_and_BEAST_attack_-_Disable_SSLv2_-_Enable_PFS%29.html">This tutorial is also available for Lighttpd</a></p>
 
